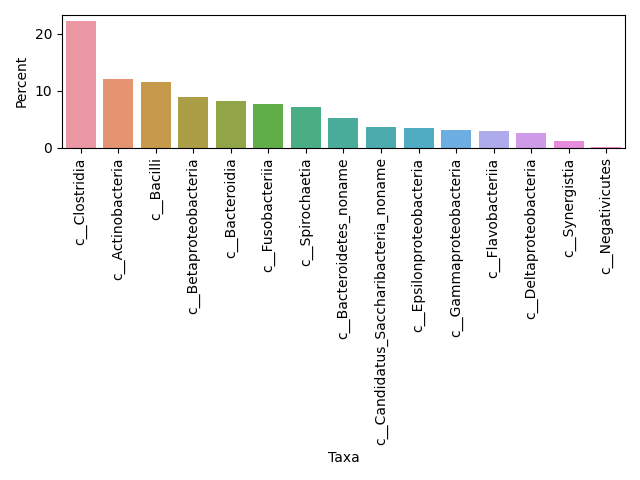
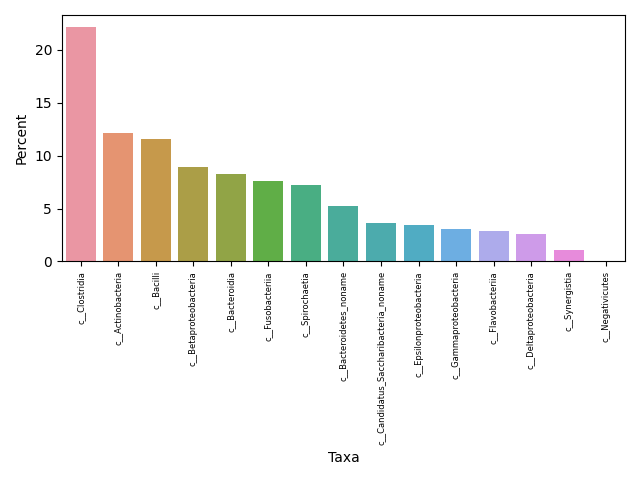
task8 font size smaller on bar plots

Changed region(s): [[0.0, 0.125, 0.9688, 0.9375], [0.0938, 0.0312, 0.1562, 0.0625], [0.0625, 0.0625, 0.0938, 0.125]]

diff --git a/project_8_16s/plot_bars.py b/project_8_16s/plot_bars.py
@@ -16,7 +16,7 @@ def main(path):
             sns.barplot(xs, ys)
             plt.xlabel("Taxa")
             plt.ylabel("Percent")
-            plt.xticks(rotation=90)
+            plt.xticks(rotation=90, size=6)
             plt.tight_layout()
             plt.savefig(f"plot/taxa_bar_level_{i}.png")
             plt.clf()
